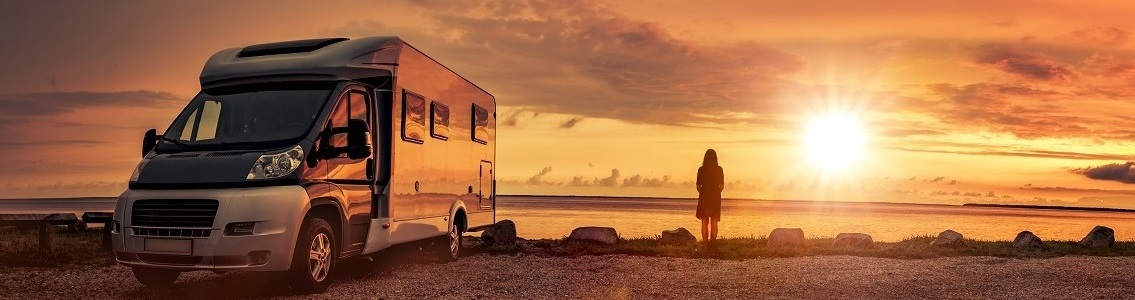
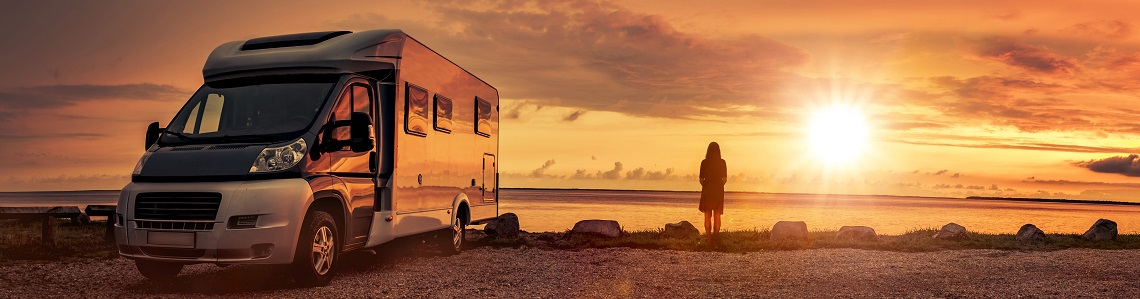
added more landing page images and shortened some counts wording to fit better on devices

diff --git a/src/app/features/home/likeme-counts/likeme-counts.component.ts b/src/app/features/home/likeme-counts/likeme-counts.component.ts
@@ -36,6 +36,8 @@ export class LikemeCountsComponent implements OnInit {
   showRigType = false;
   showRvUse = false;
 
+  private likeMeDesc: string;
+  private likeMeAnswer: string;
   private profile: IuserProfile;
   private userProfile: Observable<IuserProfile>;
 
@@ -74,15 +76,33 @@ export class LikemeCountsComponent implements OnInit {
 
       if (this.profile.aboutMe && this.aboutMeCount > 0  && this.profile.aboutMe.substring(0, 1) !== '@') {
         this.showAboutMe = true;
-        this.aboutMe = 'profile.component.list.aboutme.' + this.profile.aboutMe;
+        if (this.aboutMeCount === 1) {
+          this.likeMeDesc = this.translate.instant('connections.component.aboutMe1');
+        } else {
+          this.likeMeDesc = this.translate.instant('connections.component.aboutMe');
+        }
+        this.likeMeAnswer = this.translate.instant('profile.component.list.aboutme.' + this.profile.aboutMe.toLowerCase());
+        this.aboutMe = this.aboutMeCount + ' ' + this.likeMeDesc + ' ' + this.likeMeAnswer;
       }
       if (this.profile.rigType && this.rigTypeCount > 0  && this.profile.rigType.substring(0, 1) !== '@') {
         this.showRigType = true;
-        this.rigType = 'profile.component.list.rigtype.' + this.profile.rigType.toLowerCase();
+        if (this.rigTypeCount === 1) {
+          this.likeMeDesc = this.translate.instant('connections.component.rigType1');
+        } else {
+          this.likeMeDesc = this.translate.instant('connections.component.rigType');
+        }
+        this.likeMeAnswer = this.translate.instant('profile.component.list.rigtype.' + this.profile.rigType.toLowerCase());
+        this.rigType = this.rigTypeCount + ' ' + this.likeMeDesc + ' ' + this.likeMeAnswer;
       }
       if (this.profile.rvUse && this.rvUseCount > 0  && this.profile.rvUse.substring(0, 1) !== '@') {
         this.showRvUse = true;
-        this.rvUse = 'profile.component.list.rvuse.' + this.profile.rvUse.toLowerCase();
+        if (this.rvUseCount === 1) {
+          this.likeMeDesc = this.translate.instant('connections.component.rvUse1');
+        } else {
+          this.likeMeDesc = this.translate.instant('connections.component.rvUse');
+        }
+        this.likeMeAnswer = this.translate.instant('profile.component.list.rvuse.' + this.profile.rvUse.toLowerCase());
+        this.rvUse = this.rvUseCount + ' ' + this.likeMeDesc + ' ' + this.likeMeAnswer;
       }
     }, (error) => {
       this.showSpinner = false;

diff --git a/src/app/features/home/likeme-counts/likeme-counts.component.html b/src/app/features/home/likeme-counts/likeme-counts.component.html
@@ -5,15 +5,15 @@
   </button>
   <button mat-button (click)="onClick('aboutMe')"
     *ngIf="showAboutMe" class="user-count">
-    {{ "home.component.aboutMePrefix" | translate}} {{ aboutMe | translate }}: {{ this.aboutMeCount }}
+    {{ aboutMe }}
   </button>
   <button mat-button (click)="onClick('rvUse')"
     *ngIf="showRvUse" class="user-count">
-      {{ "home.component.rvUsePrefix" | translate}} {{ rvUse | translate }}: {{ this.rvUseCount }}
+      {{ rvUse }}
   </button>
   <button mat-button (click)="onClick('rigType')"
   *ngIf="showRigType" class="user-count">
-    {{ "home.component.rigTypePrefix" | translate}} {{ rigType | translate }}: {{ this.rigTypeCount }}
+    {{ rigType }}
 </button>
   <mat-progress-spinner class="spinner" mode="indeterminate" *ngIf="showSpinner" diameter="20"></mat-progress-spinner>
 </div>

diff --git a/src/app/landing-page/landing-page.component.html b/src/app/landing-page/landing-page.component.html
@@ -25,5 +25,5 @@
   <button *ngIf="!showLearnMoreDesktop" mat-flat-button class="button" color="primary" (click)="registerUser()">Sign up for free</button>
   <button mat-stroked-button class="button" (click)="signIn()">Log in</button>
   <button mat-stroked-button class="button" (click)="learnMore()">What is RV Like Me?</button>
-  <p class="mat-subheading-2 construction">UNDER CONSTRUCTION v35</p>
+  <p class="mat-subheading-2 construction">UNDER CONSTRUCTION v36</p>
 </div>

diff --git a/src/app/landing-page/landing-page.component.ts b/src/app/landing-page/landing-page.component.ts
@@ -57,7 +57,7 @@ export class LandingPageComponent implements OnInit {
     this.windowHeight = window.innerHeight;
 
     // Randomly pick one of 2 landing page RV images
-    this.landingImageNbr = Math.floor(Math.random() * 2) + 1;
+    this.landingImageNbr = Math.floor(Math.random() * 3) + 1;
 
     if (this.windowWidth > 600) {
       this.landingImage = 'landing-image' + this.landingImageNbr + '.jpeg';
